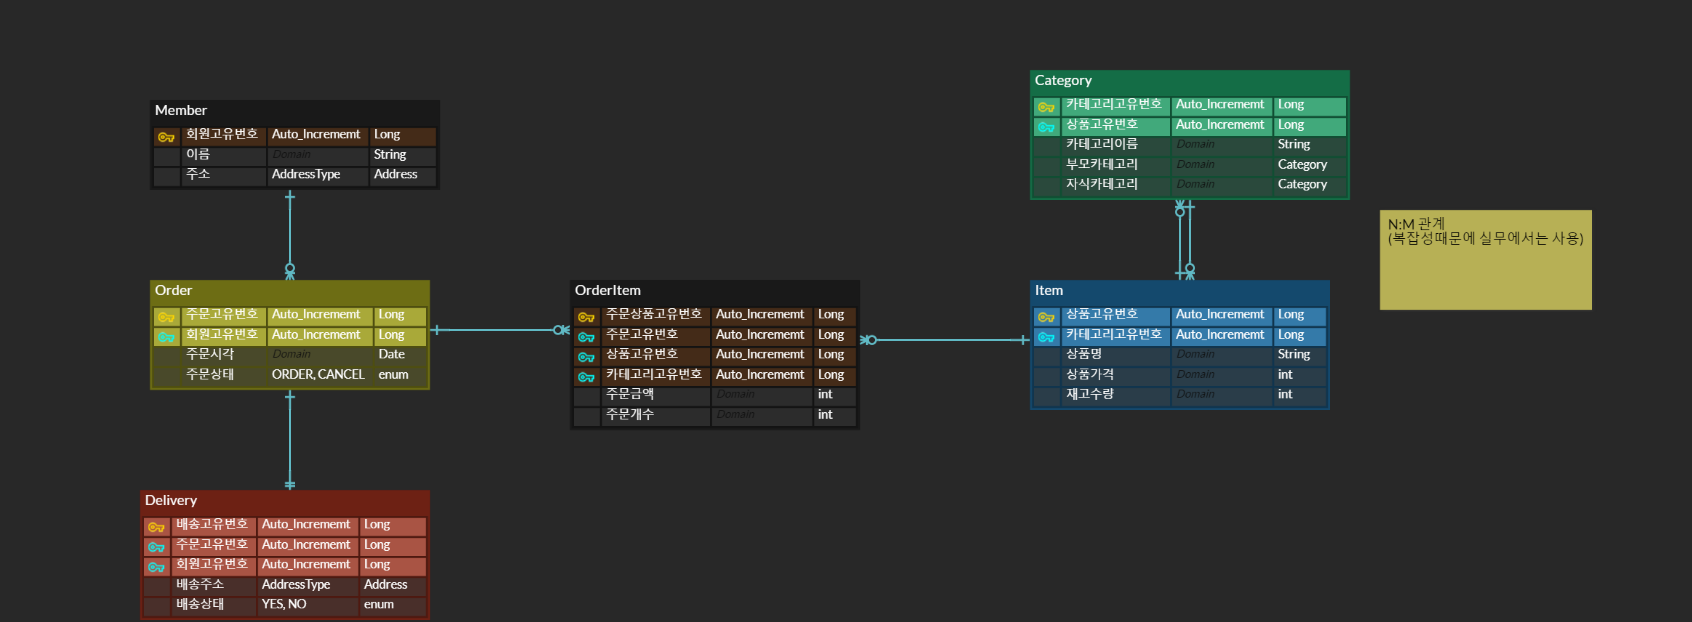
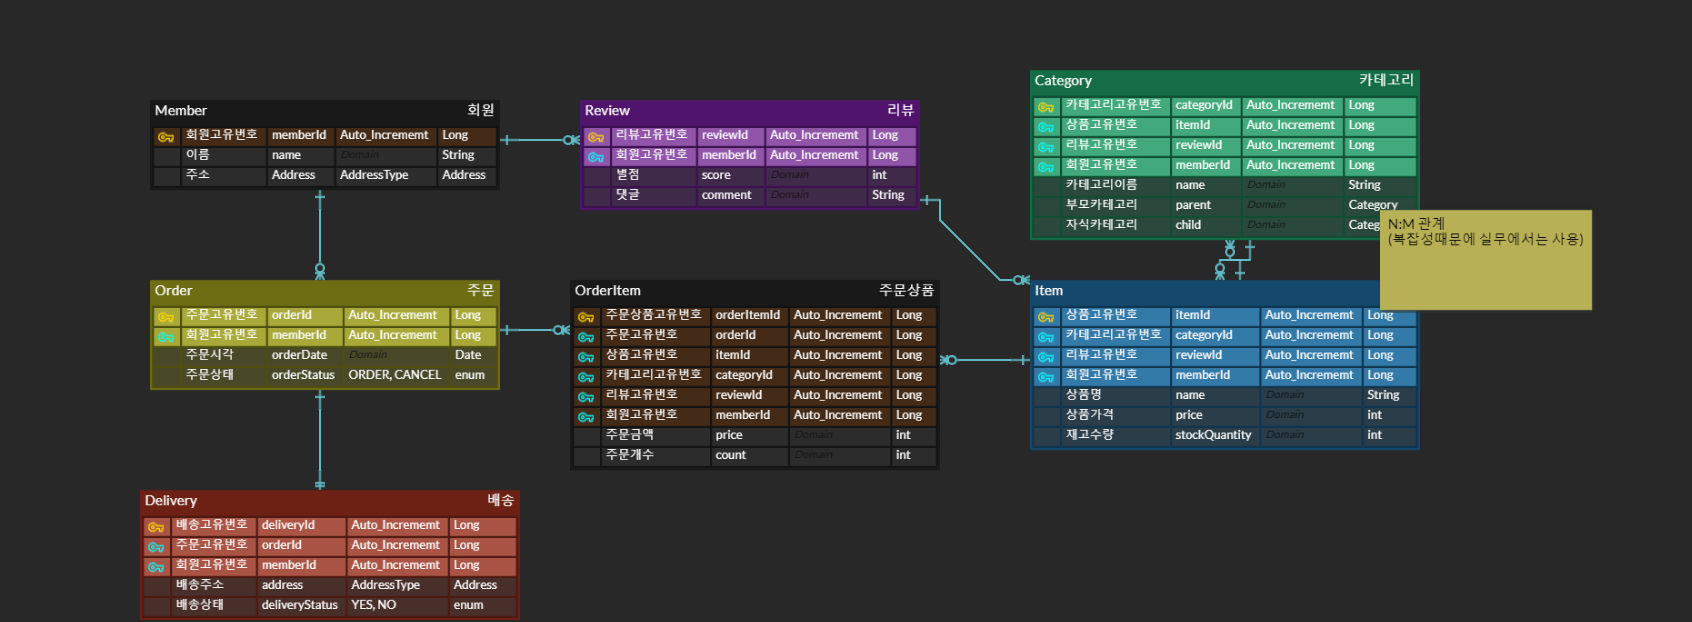
Review_Table_Add

diff --git a/shop/src/main/java/org/project/shop/domain/Review.java b/shop/src/main/java/org/project/shop/domain/Review.java
@@ -1,0 +1,23 @@
+package org.project.shop.domain;
+
+
+import jakarta.persistence.*;
+
+import java.util.ArrayList;
+import java.util.List;
+
+@Entity
+public class Review {
+    @Id
+    @GeneratedValue
+    private Long id;
+    private int score;
+    private String comment;
+
+    @ManyToOne
+    @JoinColumn(name = "review", unique = true)
+    private Member member;
+
+    @OneToMany(mappedBy = "review")
+    private List<Item> items = new ArrayList<>();
+}

diff --git a/shop/src/main/java/org/project/shop/domain/Item.java b/shop/src/main/java/org/project/shop/domain/Item.java
@@ -28,6 +28,10 @@ public abstract class Item {
     @JoinTable(name = "items")
     private List<Category> categories = new ArrayList<>();
 
+    @ManyToOne
+    @JoinColumn(name = "items", unique = true)
+    private Review review;
+
     // 재고 관리를 위한 로직
     public void addStock(int stockQuantity) {
         this.stockQuantity += stockQuantity;

diff --git a/shop/src/main/java/org/project/shop/domain/Member.java b/shop/src/main/java/org/project/shop/domain/Member.java
@@ -24,6 +24,9 @@ public class Member {
     @OneToMany(mappedBy = "member")
     private List<Order> orders = new ArrayList<>();
 
+    @OneToMany(mappedBy = "member")
+    private List<Review> reviews = new ArrayList<>();
+
     public void setAddress(Address address) {
         this.address = address;
     }
